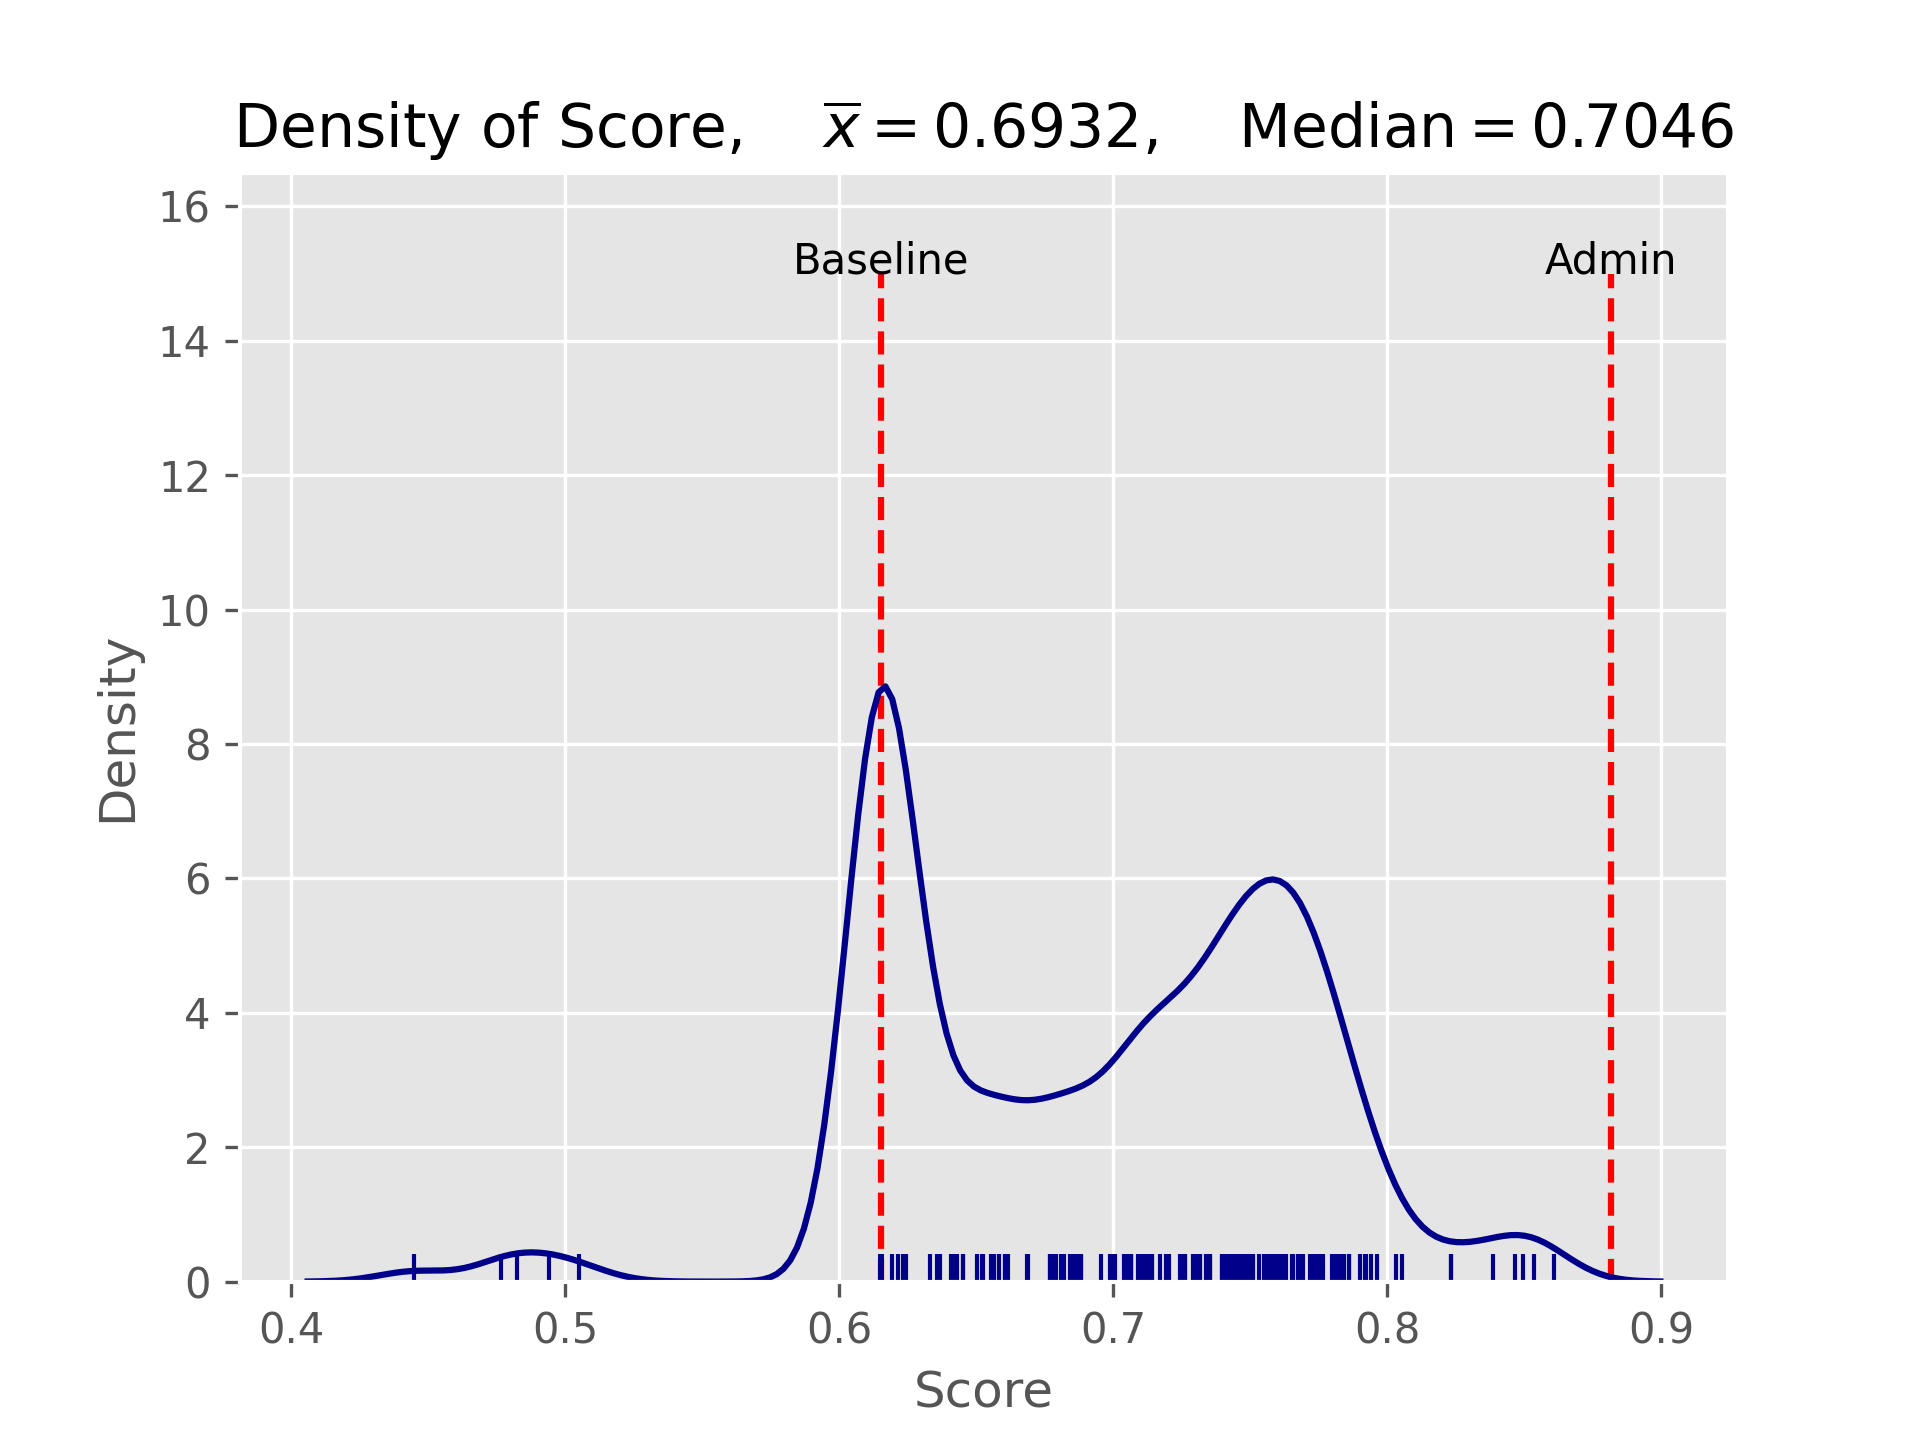
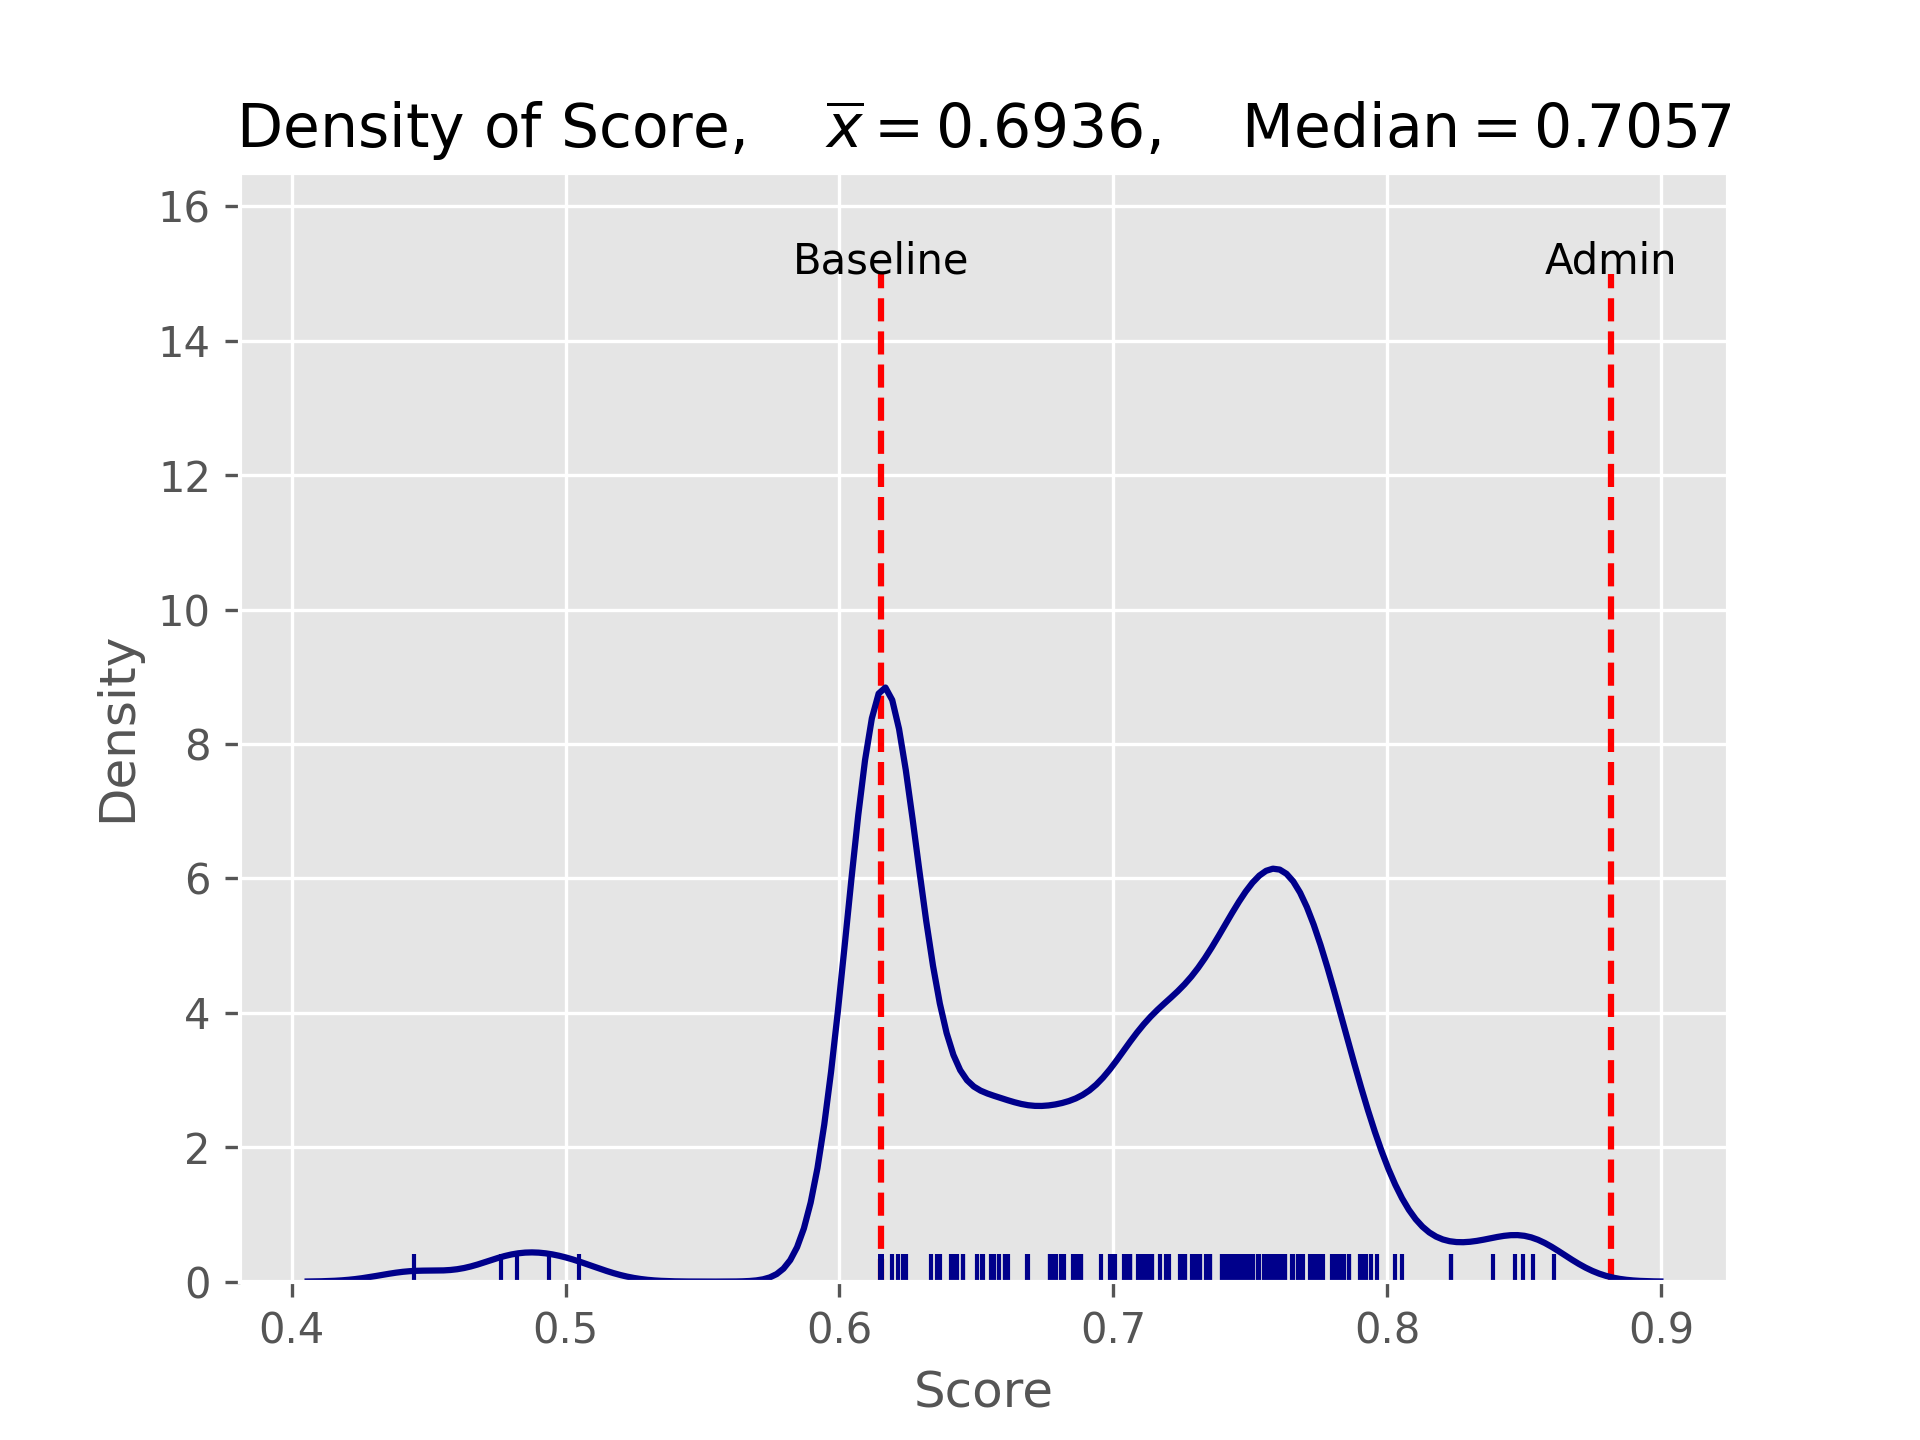
Updated: 2021-05-17 16:44:20

diff --git a/README.md b/README.md
@@ -1,6 +1,6 @@
 # ETC3250 Kaggle score
 
-**Last updated: May 17, 2021 15:59:46**
+**Last updated: May 17, 2021 16:44:19**
 
 ## WARNING: Your final grade is based on your score on the `private leaderboard`. 
 
@@ -22,7 +22,7 @@ Number of teams: 206
 |---|---|---|---|---|---|
 |1|6759412|Davide Signor|17 May 12:40:27|0.86078|13|
 |2|6749482|dzho37|16 May 23:11:41|0.85342|13|
-|3|6754507|Not Admin|16 May 12:25:47|0.84946|13|
+|3|6754507|Not Admin|17 May 16:18:54|0.84946|13|
 |4|6765261|Real Admin @zyan0056|16 May 16:16:12|0.84663|13|
 |5|6767591|carljohnsonCJ|16 May 19:46:00|0.83870|13|
 |6|6754716|efre0004|17 May 02:39:44|0.82342|13|
@@ -60,80 +60,80 @@ Number of teams: 206
 |38|6755482|dche0021|15 May 18:39:06|0.76570|11|
 |39|6749892|Zhongzheng Zhang|16 May 17:34:04|0.76513|11|
 |40|6759838|xwuu0061|17 May 15:05:21|0.76287|11|
-|41|6754021|ntry0001|17 May 14:35:44|0.76230|11|
-|42|6755781|vwid06|17 May 05:08:33|0.76174|11|
-|43|6753842|Anqi Luo|16 May 22:56:31|0.76117|11|
-|44|6756315|Qin Zhou 29287170|17 May 14:42:15|0.76117|11|
-|45|6768276|Alex Chou|17 May 15:34:23|0.76061|11|
-|46|6755448|jwan0296|16 May 18:52:06|0.76061|11|
-|47|6759326|Emily Sheehan|17 May 13:32:11|0.76061|11|
-|48|6749366|xwan0160|16 May 23:33:43|0.75891|11|
-|49|6751334|yzha0275|17 May 12:19:36|0.75834|11|
-|50|6750247|Kevin Tat17|16 May 17:59:48|0.75721|11|
-|51|6749412|Monchy|17 May 13:30:49|0.75721|11|
-|52|6754693|xwan0169|14 May 09:20:24|0.75664|11|
-|53|6758694|nhee0002|16 May 20:21:14|0.75495|11|
-|54|6768666|jham0020|16 May 23:44:06|0.75325|11|
-|55|6754314|Alexi Tsakis|17 May 13:59:33|0.75099|11|
-|56|6764345|yliu0320|16 May 19:42:52|0.75099|11|
-|57|6750774|yhua0047|15 May 15:45:06|0.74985|11|
-|58|6759731|Daniel Ong|17 May 03:07:00|0.74985|11|
-|59|6758777|Gayani Amali Balasuriya|17 May 12:29:32|0.74872|11|
-|60|6768072|Jkan0025|16 May 15:50:00|0.74872|11|
-|61|6754556|sami0006|16 May 16:22:20|0.74759|11|
-|62|6750485|Zhongxuan Yin|13 May 14:53:31|0.74646|11|
-|63|6760317|Wliu0044|17 May 00:56:27|0.74646|11|
-|64|6765326|ywan0454|12 May 02:49:19|0.74533|11|
-|65|6764575|jngu0046|16 May 12:45:55|0.74533|11|
-|66|6749461|mkar0012|16 May 14:43:07|0.74476|11|
-|67|6751520|mluk0004|17 May 15:48:40|0.74419|11|
-|68|6783780|mshi0014|16 May 21:53:55|0.74306|11|
-|69|6756740|psap0002|16 May 17:43:14|0.74193|11|
-|70|6755109|Dea Avega Editya|17 May 10:44:40|0.74136|11|
-|71|6760740|qwan0060|15 May 00:05:05|0.74080|11|
-|72|6753832|hmaus1|16 May 20:47:42|0.73967|11|
-|73|6749310|rtia0007|16 May 10:40:06|0.73967|11|
-|74|6761498|qche0022|16 May 23:16:53|0.73514|10|
-|75|6749457|Belgian Pharmacist|17 May 15:26:16|0.73514|10|
-|76|6753638|nper0009|17 May 10:02:16|0.73457|10|
-|77|6750514|wwin0001|14 May 23:41:39|0.73401|10|
-|78|6750992|Qimei Yang|16 May 17:28:56|0.73174|10|
-|79|6750996|Lirui Guo|16 May 17:10:31|0.73174|10|
-|80|6749287|rwon0005|16 May 22:14:18|0.73005|10|
-|81|6767433|ang0004|16 May 10:36:26|0.72948|10|
-|82|6760878|Oblong|14 May 09:53:00|0.72891|10|
-|83|6765541|wtan0001|16 May 15:08:01|0.72608|10|
-|84|6750421|sche0149|16 May 15:36:49|0.72608|10|
-|85|6763455|Ziyue Zhang|15 May 00:26:27|0.72552|10|
-|86|6768117|avon0005|16 May 12:57:45|0.72439|10|
-|87|6753551|dorl0002|17 May 01:10:08|0.72043|10|
-|88|6753813|yzha0633|17 May 10:44:39|0.71986|10|
-|89|6749490|fwan0018|15 May 10:03:02|0.71986|10|
-|90|6754894|dama0007|17 May 10:02:36|0.71929|10|
-|91|6754678|Ronghao Zhang|14 May 11:34:12|0.71703|10|
-|92|6751234|Guy H Davis|14 May 10:57:28|0.71420|10|
-|93|6751598|hfen27|14 May 13:11:44|0.71420|10|
-|94|6749351|jche0254|16 May 23:10:23|0.71307|10|
-|95|6763958|berob5|15 May 18:21:09|0.71194|10|
-|96|6767603|jfer0020|11 May 19:09:43|0.71080|10|
-|97|6767902|wfer0009|16 May 19:33:58|0.71024|10|
-|98|6755522|casco2|15 May 12:16:36|0.71024|10|
-|99|6767378|Arzu Khanna|15 May 17:49:23|0.70911|10|
-|100|6766000|Langtian Cheng|16 May 23:21:37|0.70628|10|
-|101|6762123|Siddhant Tirodkar|17 May 01:26:32|0.70628|10|
-|102|6762269|Priya Dingorkar|17 May 00:20:39|0.70628|10|
-|103|6761828|Ying Zou95|16 May 14:21:41|0.70514|10|
-|104|6760555|zzha0230|16 May 22:41:15|0.70401|10|
-|105|6762592|xyan0048|16 May 17:47:05|0.70062|10|
-|106|6756942|jtho0048|15 May 19:58:12|0.70005|10|
-|107|6762119|Evelyn Budhy Wibowo|15 May 17:22:32|0.69892|10|
-|108|6765299|zyliu16|17 May 00:57:32|0.69552|10|
-|109|6782531|jraw0002|16 May 17:04:01|0.68817|10|
-|110|6760529|maam0001|15 May 18:33:08|0.68817|10|
-|111|6768279|Thomas Winson|16 May 15:41:58|0.68704|10|
-|112|6750607|hngo0005|14 May 15:23:32|0.68647|10|
-|113|6753792|Angelina Atanassova|17 May 12:28:44|0.68534|10|
-|114|6750103|heva0001|17 May 00:33:52|0.68421|10|
+|41|6768072|Jkan0025|17 May 16:32:25|0.76287|11|
+|42|6754021|ntry0001|17 May 14:35:44|0.76230|11|
+|43|6755781|vwid06|17 May 05:08:33|0.76174|11|
+|44|6753842|Anqi Luo|16 May 22:56:31|0.76117|11|
+|45|6756315|Qin Zhou 29287170|17 May 14:42:15|0.76117|11|
+|46|6768276|Alex Chou|17 May 15:34:23|0.76061|11|
+|47|6755448|jwan0296|16 May 18:52:06|0.76061|11|
+|48|6759326|Emily Sheehan|17 May 13:32:11|0.76061|11|
+|49|6749366|xwan0160|16 May 23:33:43|0.75891|11|
+|50|6751334|yzha0275|17 May 12:19:36|0.75834|11|
+|51|6750247|Kevin Tat17|17 May 16:27:17|0.75721|11|
+|52|6749412|Monchy|17 May 13:30:49|0.75721|11|
+|53|6754693|xwan0169|14 May 09:20:24|0.75664|11|
+|54|6758694|nhee0002|16 May 20:21:14|0.75495|11|
+|55|6768666|jham0020|16 May 23:44:06|0.75325|11|
+|56|6750103|heva0001|17 May 16:42:32|0.75268|11|
+|57|6754314|Alexi Tsakis|17 May 13:59:33|0.75099|11|
+|58|6764345|yliu0320|16 May 19:42:52|0.75099|11|
+|59|6750774|yhua0047|15 May 15:45:06|0.74985|11|
+|60|6759731|Daniel Ong|17 May 03:07:00|0.74985|11|
+|61|6758777|Gayani Amali Balasuriya|17 May 12:29:32|0.74872|11|
+|62|6754556|sami0006|16 May 16:22:20|0.74759|11|
+|63|6750485|Zhongxuan Yin|13 May 14:53:31|0.74646|11|
+|64|6760317|Wliu0044|17 May 16:23:56|0.74646|11|
+|65|6765326|ywan0454|12 May 02:49:19|0.74533|11|
+|66|6764575|jngu0046|16 May 12:45:55|0.74533|11|
+|67|6749461|mkar0012|16 May 14:43:07|0.74476|11|
+|68|6751520|mluk0004|17 May 15:48:40|0.74419|11|
+|69|6783780|mshi0014|16 May 21:53:55|0.74306|11|
+|70|6756740|psap0002|16 May 17:43:14|0.74193|11|
+|71|6755109|Dea Avega Editya|17 May 10:44:40|0.74136|11|
+|72|6760740|qwan0060|15 May 00:05:05|0.74080|11|
+|73|6753832|hmaus1|16 May 20:47:42|0.73967|11|
+|74|6749310|rtia0007|16 May 10:40:06|0.73967|11|
+|75|6761498|qche0022|16 May 23:16:53|0.73514|10|
+|76|6749457|Belgian Pharmacist|17 May 15:26:16|0.73514|10|
+|77|6753638|nper0009|17 May 10:02:16|0.73457|10|
+|78|6750514|wwin0001|14 May 23:41:39|0.73401|10|
+|79|6750992|Qimei Yang|16 May 17:28:56|0.73174|10|
+|80|6750996|Lirui Guo|16 May 17:10:31|0.73174|10|
+|81|6749287|rwon0005|16 May 22:14:18|0.73005|10|
+|82|6767433|ang0004|16 May 10:36:26|0.72948|10|
+|83|6760878|Oblong|14 May 09:53:00|0.72891|10|
+|84|6765541|wtan0001|16 May 15:08:01|0.72608|10|
+|85|6750421|sche0149|16 May 15:36:49|0.72608|10|
+|86|6763455|Ziyue Zhang|15 May 00:26:27|0.72552|10|
+|87|6768117|avon0005|16 May 12:57:45|0.72439|10|
+|88|6753551|dorl0002|17 May 01:10:08|0.72043|10|
+|89|6753813|yzha0633|17 May 10:44:39|0.71986|10|
+|90|6749490|fwan0018|15 May 10:03:02|0.71986|10|
+|91|6754894|dama0007|17 May 10:02:36|0.71929|10|
+|92|6754678|Ronghao Zhang|14 May 11:34:12|0.71703|10|
+|93|6751234|Guy H Davis|14 May 10:57:28|0.71420|10|
+|94|6751598|hfen27|14 May 13:11:44|0.71420|10|
+|95|6749351|jche0254|16 May 23:10:23|0.71307|10|
+|96|6763958|berob5|15 May 18:21:09|0.71194|10|
+|97|6767603|jfer0020|11 May 19:09:43|0.71080|10|
+|98|6767902|wfer0009|16 May 19:33:58|0.71024|10|
+|99|6755522|casco2|15 May 12:16:36|0.71024|10|
+|100|6767378|Arzu Khanna|15 May 17:49:23|0.70911|10|
+|101|6766000|Langtian Cheng|16 May 23:21:37|0.70628|10|
+|102|6762123|Siddhant Tirodkar|17 May 01:26:32|0.70628|10|
+|103|6762269|Priya Dingorkar|17 May 00:20:39|0.70628|10|
+|104|6761828|Ying Zou95|16 May 14:21:41|0.70514|10|
+|105|6760555|zzha0230|16 May 22:41:15|0.70401|10|
+|106|6762592|xyan0048|16 May 17:47:05|0.70062|10|
+|107|6756942|jtho0048|15 May 19:58:12|0.70005|10|
+|108|6762119|Evelyn Budhy Wibowo|15 May 17:22:32|0.69892|10|
+|109|6765299|zyliu16|17 May 00:57:32|0.69552|10|
+|110|6782531|jraw0002|16 May 17:04:01|0.68817|10|
+|111|6760529|maam0001|15 May 18:33:08|0.68817|10|
+|112|6768279|Thomas Winson|16 May 15:41:58|0.68704|10|
+|113|6750607|hngo0005|14 May 15:23:32|0.68647|10|
+|114|6753792|Angelina Atanassova|17 May 12:28:44|0.68534|10|
 |115|6759061|Abin John|16 May 18:23:39|0.68194|10|
 |116|6763905|xliu0026|17 May 15:18:53|0.68081|10|
 |117|6762192|abab0012|17 May 13:27:43|0.67911|10|
@@ -206,7 +206,7 @@ Number of teams: 206
 |184|6754254|uwas0001|13 May 09:38:21|0.61516|<=7|
 |185|6765494|bdon0004|10 May 12:31:27|0.61516|<=7|
 |186|6767829|SYJ_King|15 May 23:43:23|0.61516|<=7|
-|187|6768046|asei0003|16 May 20:32:31|0.61516|<=7|
+|187|6768046|asei0003|17 May 16:26:00|0.61516|<=7|
 |188|6768108|jgre0006|10 May 13:53:07|0.61516|<=7|
 |189|6755755|Tze Hin Chang|10 May 14:40:11|0.61516|<=7|
 |190|6768540|bzha0014|11 May 11:02:58|0.61516|<=7|
